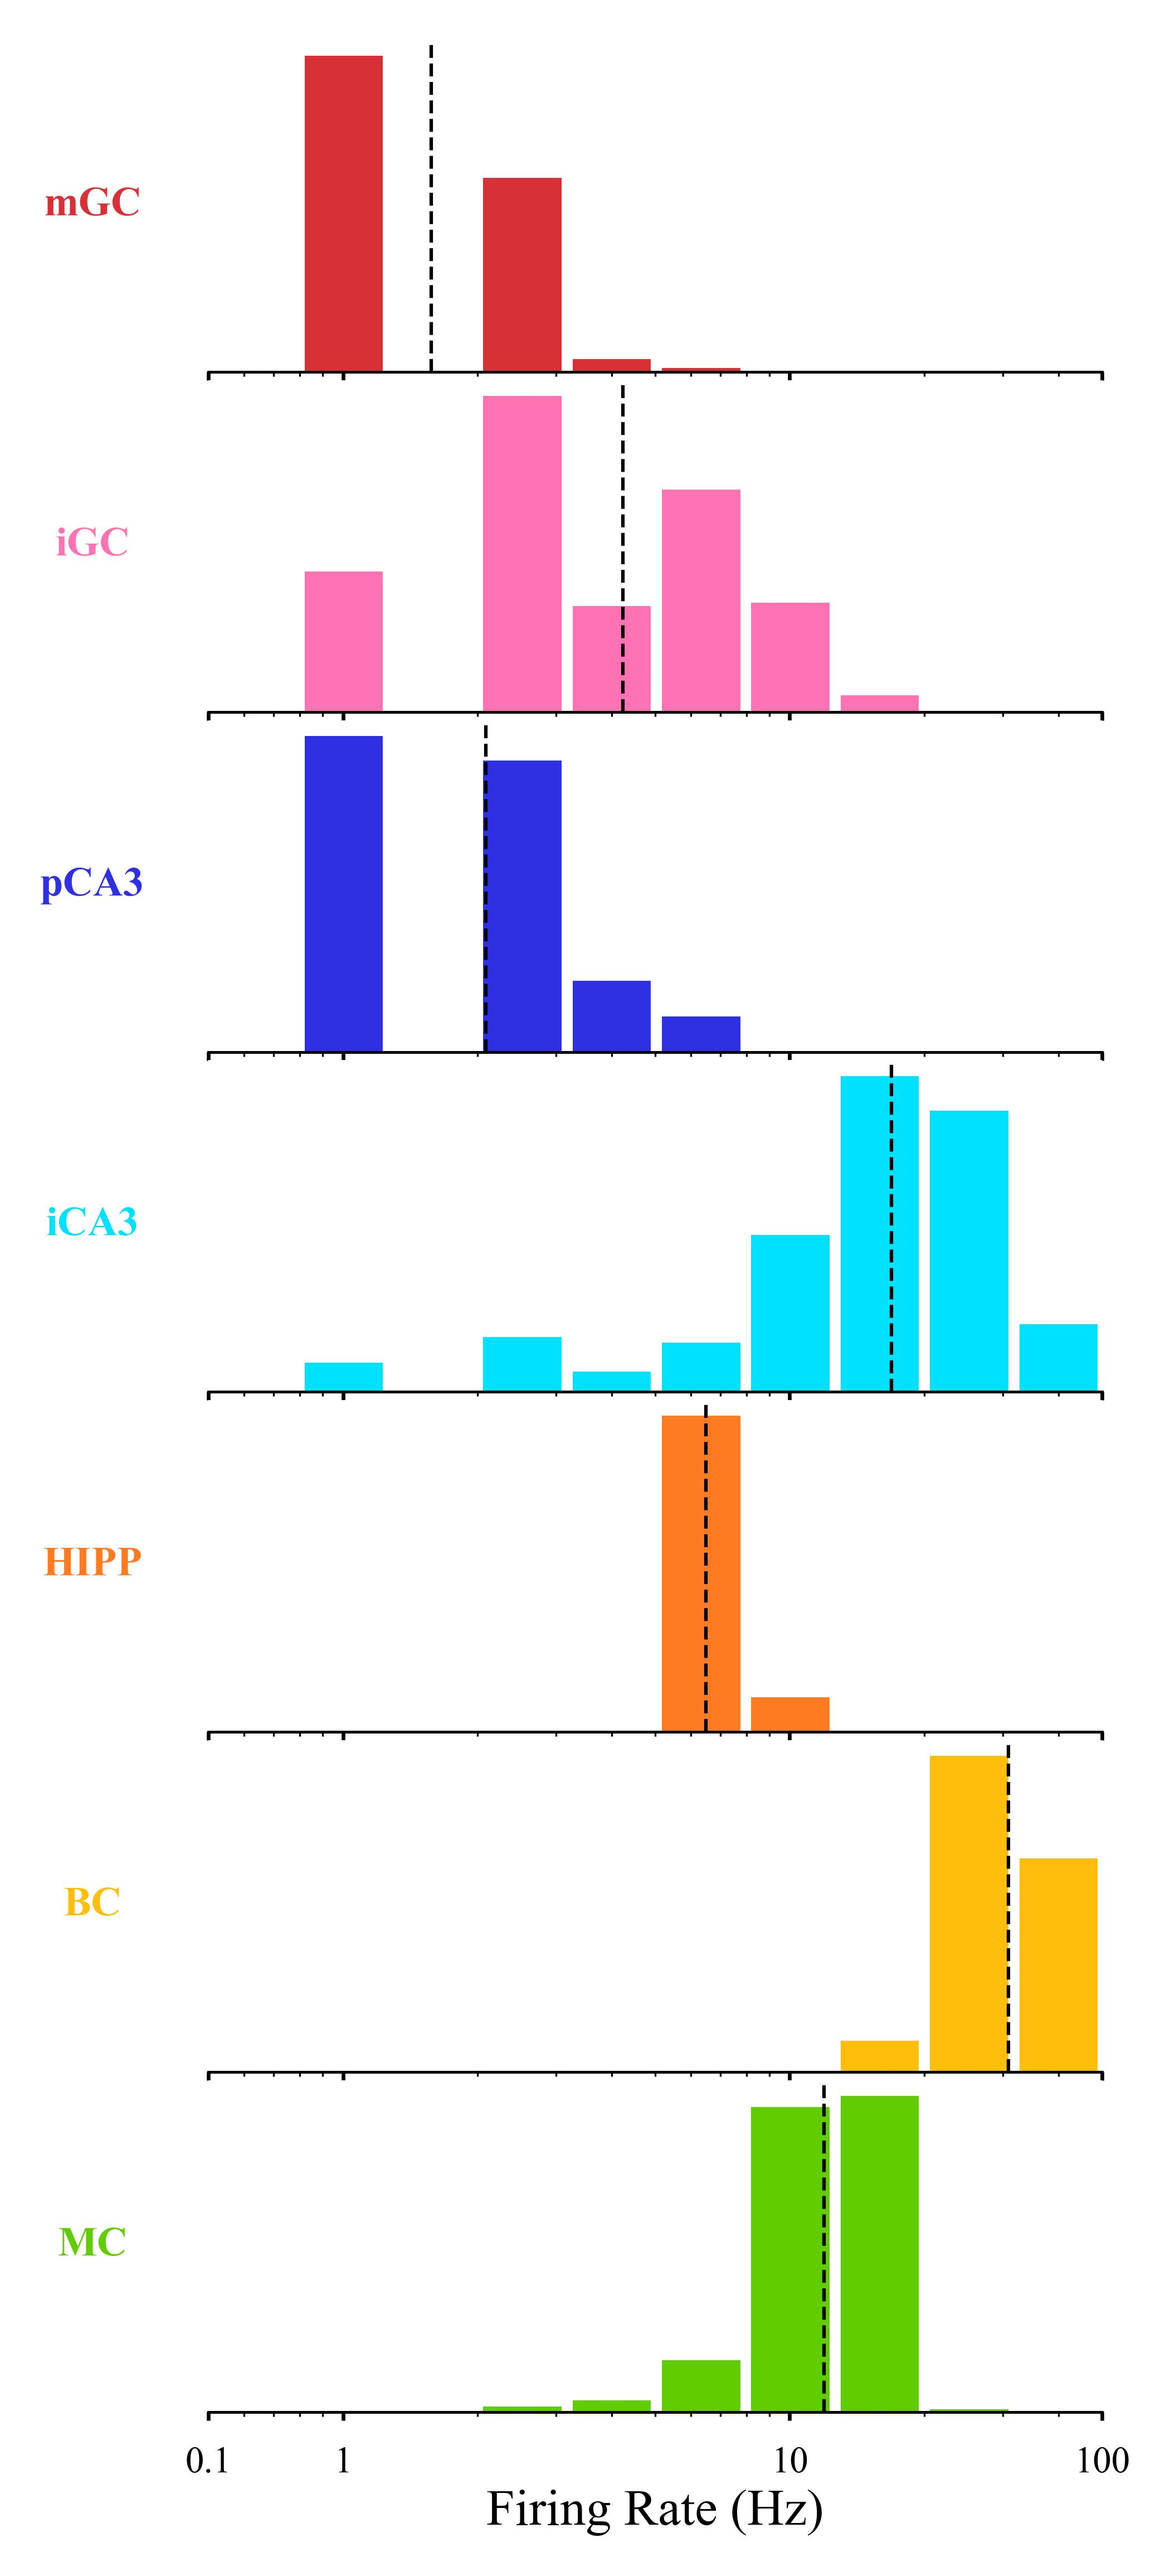
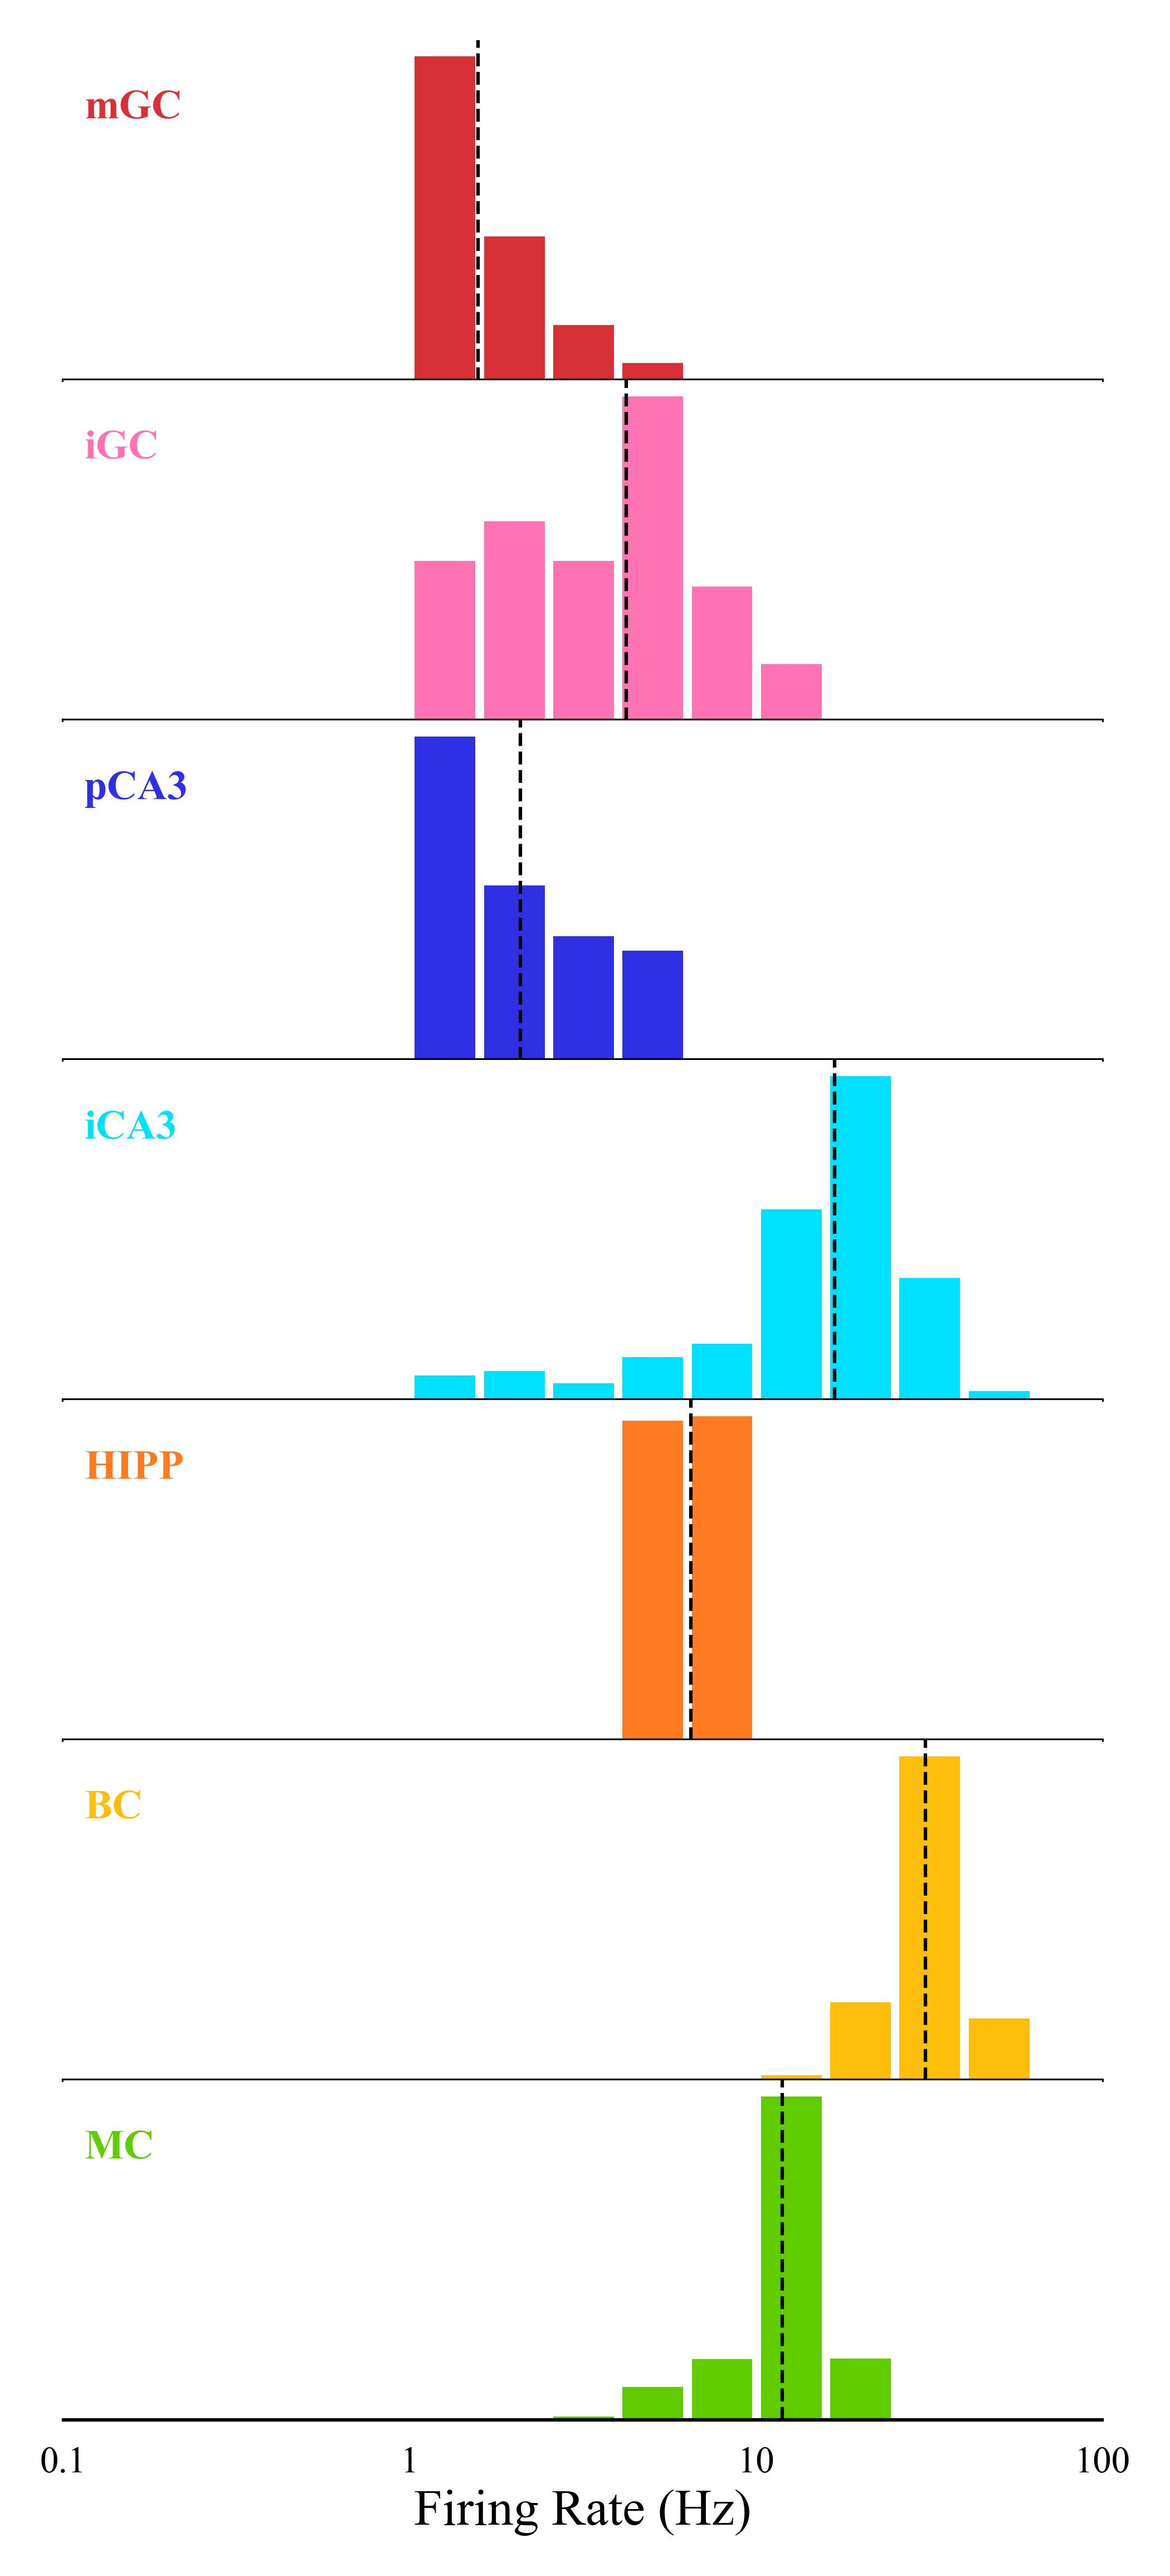
histogram

diff --git a/scripts/data/firing_rate_histogram.py b/scripts/data/firing_rate_histogram.py
@@ -50,7 +50,7 @@ def collect_all_rates(group, exclude_single_spike=False):
     return result
 
 
-def firing_rate_histogram(group, exclude_single_spike=False, n_bins=10, x_min=0.5, x_max=50):
+def firing_rate_histogram(group, exclude_single_spike=False, n_bins=15, x_min=0.1, x_max=100):
     rates_dict = collect_all_rates(group, exclude_single_spike=exclude_single_spike)
 
     active = [(ct, label) for ct, label in CELL_TYPES if len(rates_dict[ct]) > 0]
@@ -75,17 +75,18 @@ def firing_rate_histogram(group, exclude_single_spike=False, n_bins=10, x_min=0.
 
         for spine in ('top', 'right', 'left'):
             ax.spines[spine].set_visible(False)
-        ax.spines['bottom'].set_linewidth(1.2)
+        ax.spines['bottom'].set_linewidth(1.5)
         ax.spines['bottom'].set_color('black')
 
         ax.set_yticks([])
+        ax.tick_params(axis='x', which='both', length=0)
 
-        ax.set_ylabel(label, color=color, fontsize=18, fontweight='bold', rotation=0, labelpad=50, va='center')
+        ax.text(0.02, 0.85, label, transform=ax.transAxes, color=color, fontsize=18, fontweight='bold', va='top', ha='left')
 
         print(f'{group} | {label}: mean={mean_r:.4f} Hz, median={np.median(r):.4f} Hz, n={len(r)}')
 
     axes[-1].set_xlabel('Firing Rate (Hz)')
-    axes[-1].set_xticks([0.5, 1, 10, 50])
+    axes[-1].set_xticks([0.1, 1, 10, 100])
     axes[-1].set_xticklabels(['0.1', '1', '10', '100'])
 
     plt.tight_layout(h_pad=0)
